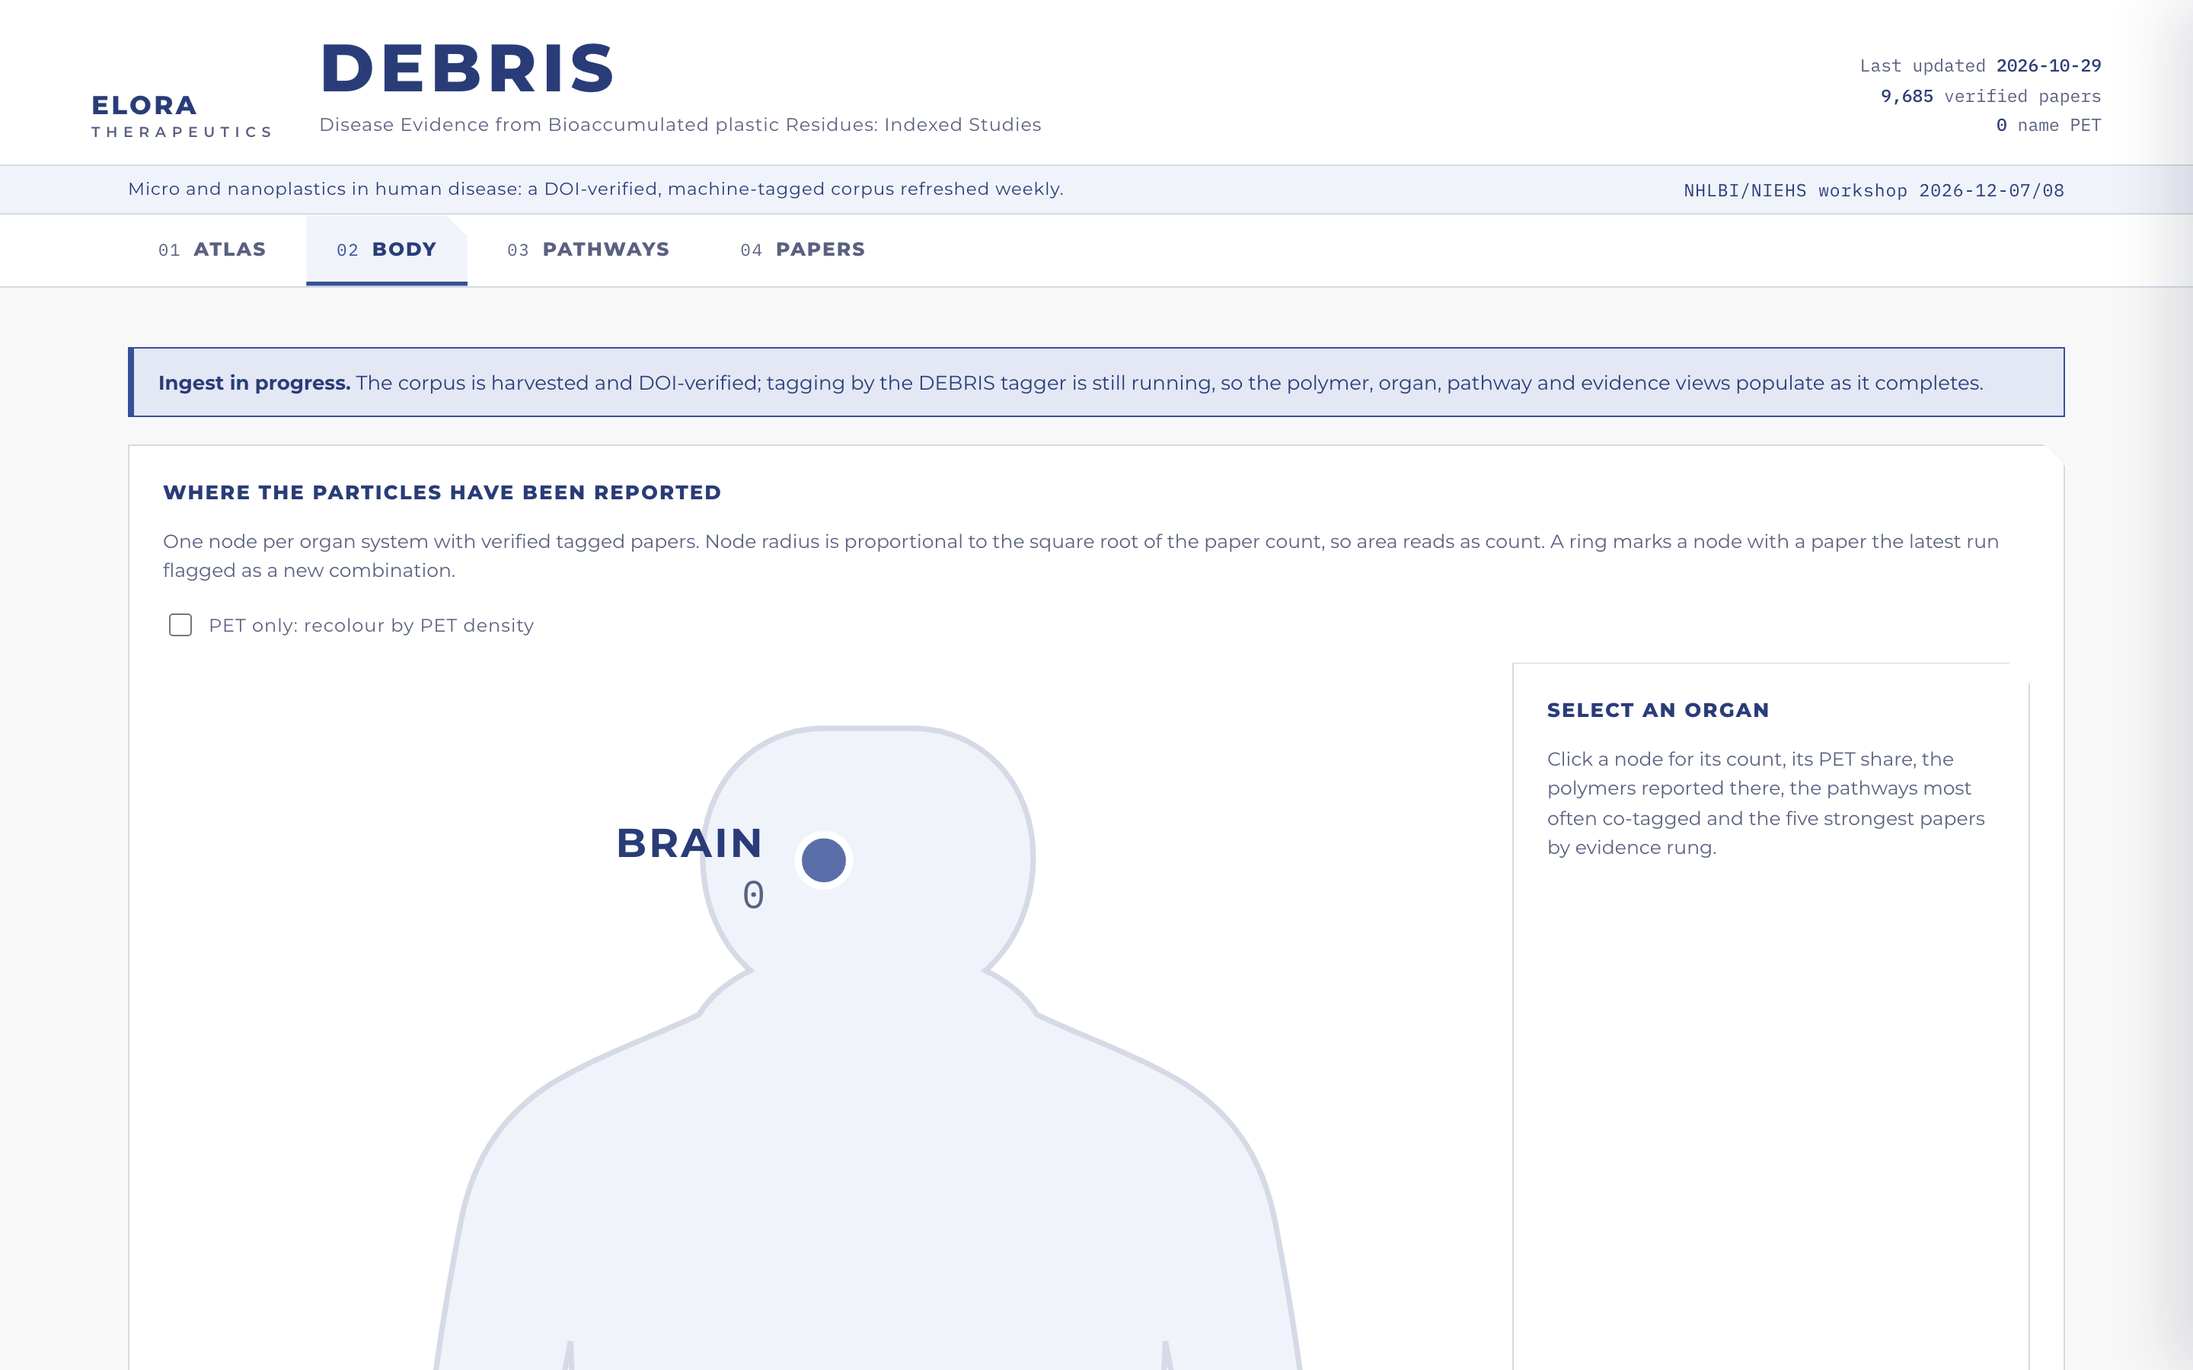
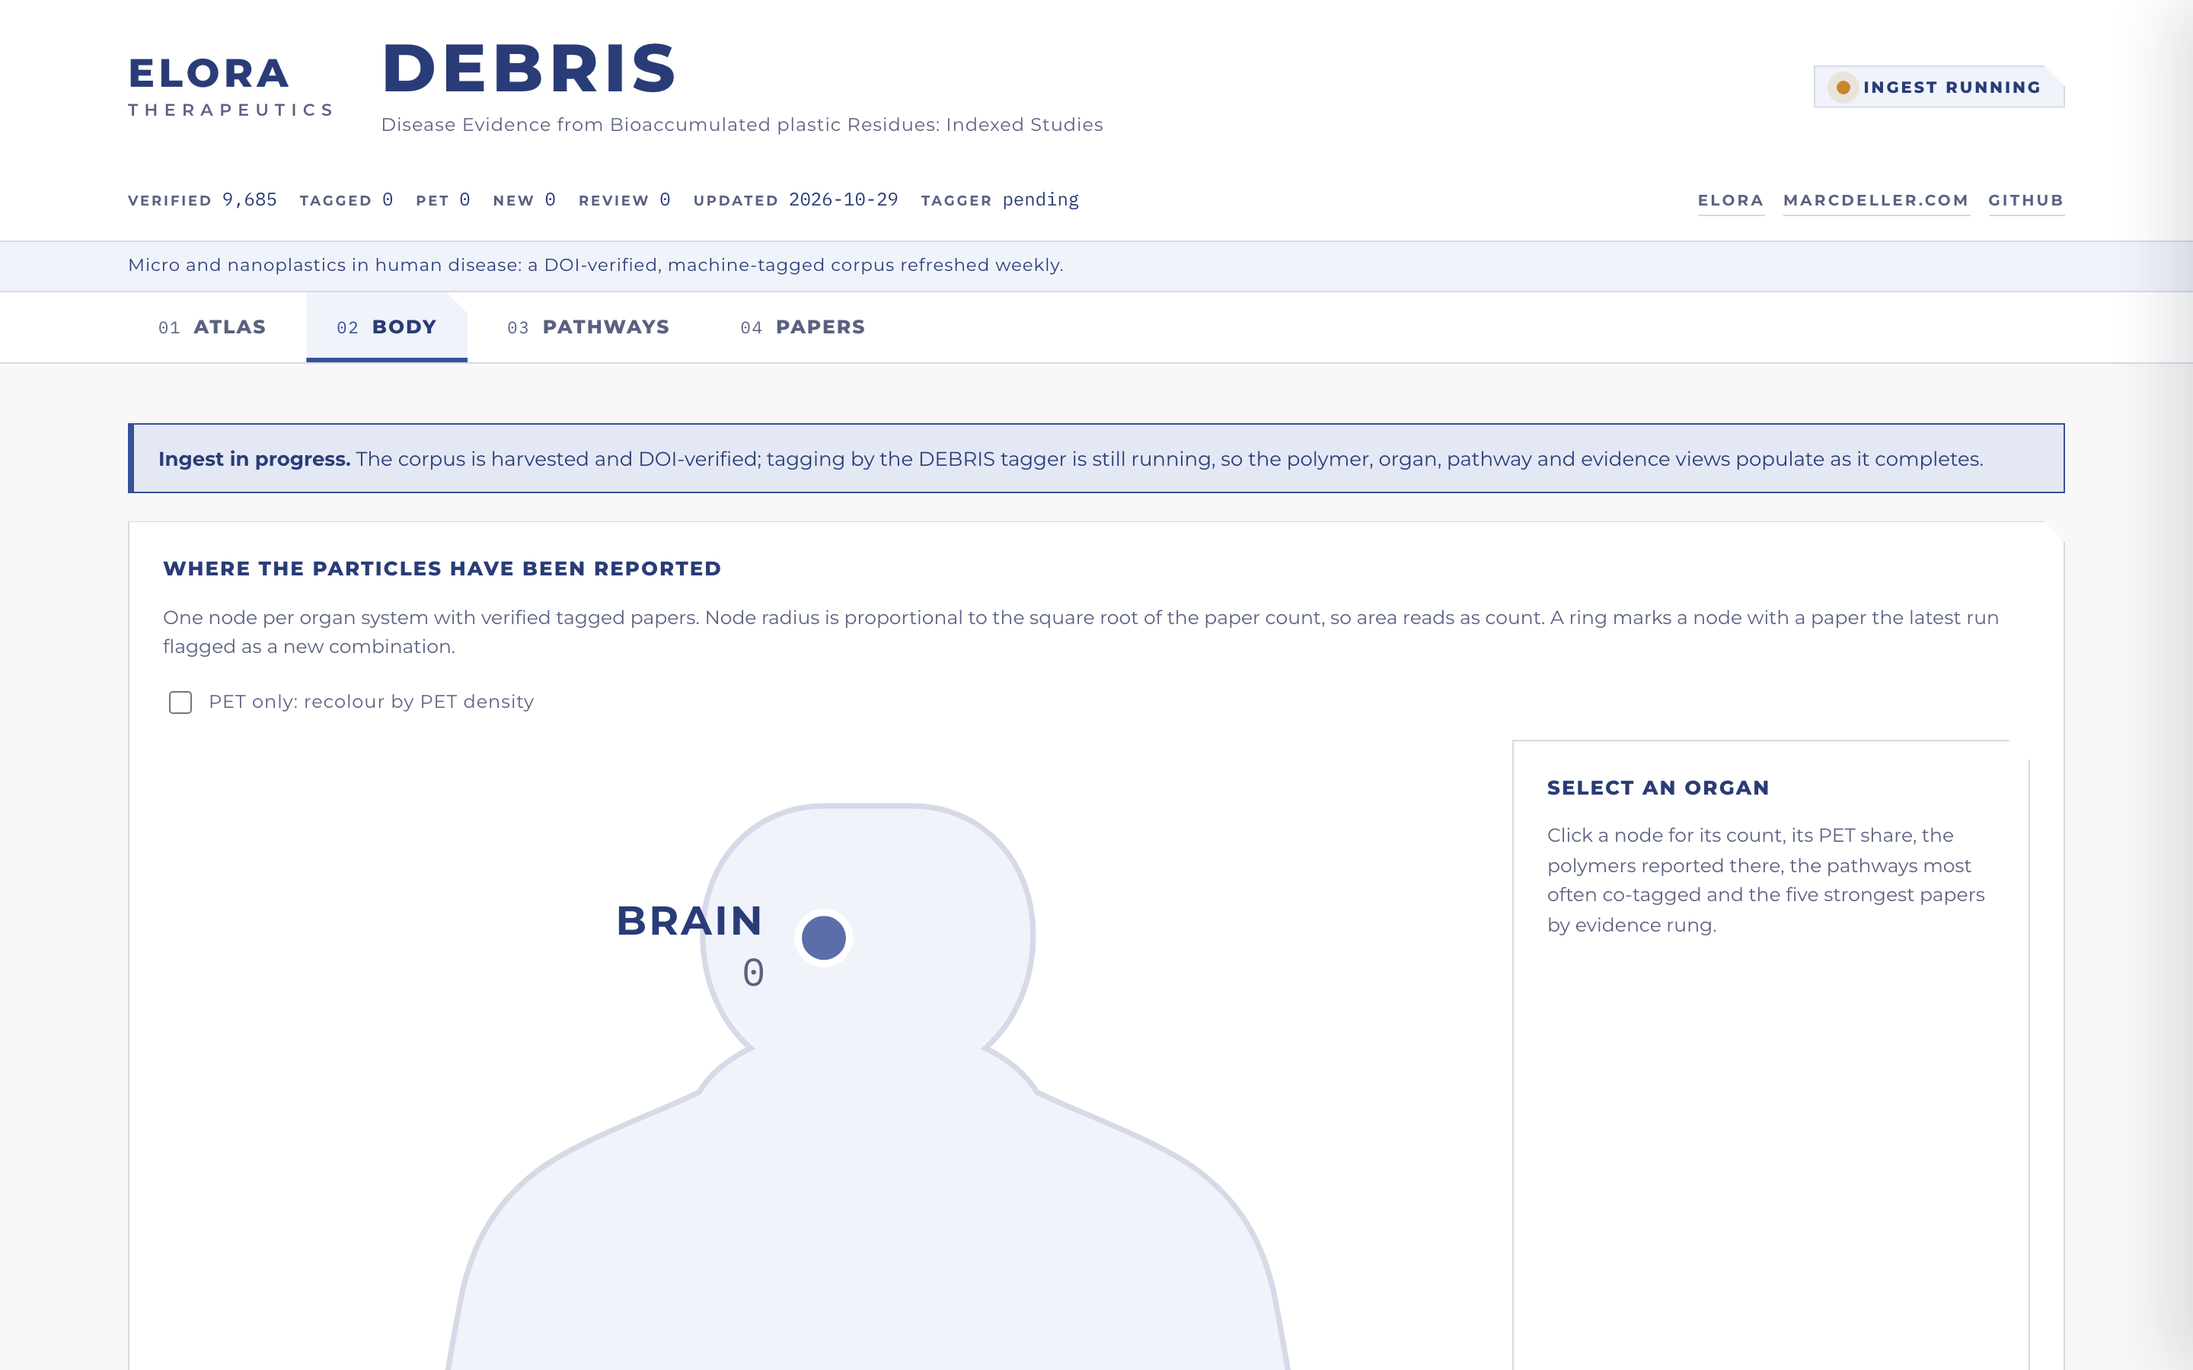
app: align and enlarge the wordmark, add a health panel and the site links
The wordmark hung outside the content column because .brandrow set
`padding:22px 0 16px` after .wrap set `padding:0 24px`, zeroing it: the logo started
at x=60 where the tabs, cards and strapline all start at x=84. The padding is now
repeated in the rule that overrode it, with a comment saying why, and the wordmark
goes from 17px to 26px.

The header carries a health indicator whose state is derived rather than decorative.
health_of() reads the corpus: an empty corpus, a refresh older than ten days, relevance
drift under 0.90 or a review queue over a quarter of the tagged papers all read
"attention"; a corpus still being tagged reads "working", because mid-ingest is not a
fault; only a complete, fresh, undrifted corpus reads "operational". The dot pulses in
its state colour, and the animation is confined to prefers-reduced-motion:no-preference
since the colour carries the state without it. The chip collapses its own figures,
which matters on a phone where the panel would push the tabs off the first screen.

Beside it: verified, tagged, PET, new, review queue, last update and tagger version,
laid out as one wrapping row rather than a stacked list, which kept the header two
lines deep. Links to Elora, marcdeller.com and the GitHub repository sit on that row.
The NHLBI/NIEHS line is removed.

9 tests for health_of, including that a problem outranks work in progress and that an
unreadable ingest date does not crash the header. 93 tests green, QC clean at 8 page
[…]

diff --git a/app/static/css/theme.css b/app/static/css/theme.css
@@ -5,7 +5,7 @@
 :root{
   --el-blue:#385098;--el-ink:#2A3C78;--el-soft:#E3E8F4;--el-tint:#F0F3FA;--el-bg:#F8F8F8;
   --el-fg:#1C2238;--el-muted:#5A6180;--el-line:#D6DAE6;--el-card:#FFFFFF;
-  --pet:#C8872B;--ps:#2C8C86;--pe-pp:#B84C62;--pvc:#6E5BA6;--other:#8A93AD;--new:#C8872B;
+  --el-ok:#2F7D62;--pet:#C8872B;--ps:#2C8C86;--pe-pp:#B84C62;--pvc:#6E5BA6;--other:#8A93AD;--new:#C8872B;
   --display:'Montserrat',Helvetica,Arial,sans-serif;--mono:'IBM Plex Mono',Menlo,monospace;
   --chamfer:polygon(0 0, calc(100% - 14px) 0, 100% 14px, 100% 100%, 0 100%);
   --gap:18px;--radius:3px;
@@ -28,19 +28,63 @@ h1,h2,h3{margin:0;font-weight:700;letter-spacing:-0.01em}
 .chamfer{clip-path:var(--chamfer)}
 
 header.site{background:var(--el-card);border-bottom:1px solid var(--el-line)}
-.brandrow{display:flex;align-items:flex-end;gap:28px;flex-wrap:wrap;padding:22px 0 16px}
-.elora{display:block;font-weight:800;font-size:17px;letter-spacing:0.1em;color:var(--el-ink);
-  text-transform:uppercase;line-height:1}
-.elora .eyebrow{display:block;font-weight:600;font-size:9.5px;letter-spacing:0.4em;
-  color:var(--el-muted);margin-top:4px}
+/* The horizontal padding is repeated from .wrap deliberately: this rule follows it in
+   the cascade, so a bare `padding:22px 0 16px` would zero it and hang the wordmark and
+   the health panel outside the column every other element lines up on. */
+.brandrow{display:flex;align-items:flex-end;gap:28px;flex-wrap:wrap;padding:22px 24px 16px}
+.elora{display:block;font-weight:800;font-size:26px;letter-spacing:0.1em;color:var(--el-ink);
+  text-transform:uppercase;line-height:1;align-self:center;flex:0 0 auto}
+.elora:hover{text-decoration:none;color:var(--el-blue)}
+.elora .eyebrow{display:block;font-weight:600;font-size:11px;letter-spacing:0.38em;
+  color:var(--el-muted);margin-top:6px}
 .titleblock{flex:1 1 420px;min-width:0}
 .titleblock h1{font-weight:800;font-size:clamp(28px,4.2vw,44px);letter-spacing:0.08em;
   text-transform:uppercase;color:var(--el-ink);line-height:1}
 .titleblock .expand{display:block;color:var(--el-muted);font-size:12px;letter-spacing:0.04em;
   margin-top:7px}
-.stamp{text-align:right;font-family:var(--mono);font-size:11.5px;color:var(--el-muted);
-  line-height:1.7;white-space:nowrap}
-.stamp b{color:var(--el-ink);font-weight:500}
+/* ------------------------------------------------------------------ health panel */
+/* The figures take a line of their own under the title, so the title keeps its width
+   and the header stays two lines deep. */
+.healthrow{flex:1 0 100%;display:flex;flex-wrap:wrap;align-items:baseline;gap:6px 18px;
+  justify-content:space-between;margin-top:2px}
+.pulse{align-self:center;display:inline-flex;align-items:center;gap:9px;cursor:pointer;
+  background:var(--el-tint);border:1px solid var(--el-line);clip-path:var(--chamfer);
+  padding:7px 14px 6px;font-family:var(--display);font-weight:800;font-size:10.5px;
+  letter-spacing:0.14em;text-transform:uppercase;color:var(--el-ink)}
+.pulse:hover{background:var(--el-soft)}
+.pulse .dot{width:9px;height:9px;border-radius:50%;flex:0 0 auto;background:var(--el-muted)}
+.pulse[data-state="ok"] .dot{background:var(--el-ok)}
+.pulse[data-state="working"] .dot{background:var(--pet)}
+.pulse[data-state="attention"] .dot{background:var(--pe-pp)}
+/* One wrapping row of pairs, not a stacked list: seven stacked rows made the header
+   taller than the content it introduces. */
+.healthgrid{display:flex;flex-wrap:wrap;gap:3px 15px;margin:0}
+.healthgrid>div{display:flex;align-items:baseline;gap:6px}
+.healthgrid dt{text-transform:uppercase;letter-spacing:0.16em;font-size:9px;font-weight:700;
+  color:var(--el-muted)}
+.healthgrid dd{margin:0;color:var(--el-ink);font-size:12px}
+.brandlinks{display:flex;gap:12px;flex-wrap:wrap;justify-content:flex-end;
+  font-size:10px;font-weight:700;letter-spacing:0.16em;text-transform:uppercase}
+.brandlinks a{color:var(--el-muted);border-bottom:1px solid var(--el-line);padding-bottom:2px}
+.brandlinks a:hover,.brandlinks a:focus-visible{color:var(--el-blue);
+  border-bottom-color:currentColor;text-decoration:none}
+
+/* The ring only animates where motion is welcome; the colour carries the state either
+   way, so nothing is lost when it is switched off. */
+@media (prefers-reduced-motion:no-preference){
+  .pulse[data-state="ok"] .dot{animation:el-pulse-ok 2.4s ease-out infinite}
+  .pulse[data-state="working"] .dot{animation:el-pulse-work 1.6s ease-out infinite}
+}
+@keyframes el-pulse-ok{
+  0%{box-shadow:0 0 0 0 rgba(47,125,98,0.55)}
+  70%{box-shadow:0 0 0 8px rgba(47,125,98,0)}
+  100%{box-shadow:0 0 0 0 rgba(47,125,98,0)}
+}
+@keyframes el-pulse-work{
+  0%{box-shadow:0 0 0 0 rgba(200,135,43,0.55)}
+  70%{box-shadow:0 0 0 8px rgba(200,135,43,0)}
+  100%{box-shadow:0 0 0 0 rgba(200,135,43,0)}
+}
 .workshop{background:var(--el-tint);border-top:1px solid var(--el-line);
   font-size:11.5px;letter-spacing:0.04em;color:var(--el-ink);padding:7px 0}
 .workshop .wrap{display:flex;gap:14px;justify-content:space-between;flex-wrap:wrap}
@@ -196,8 +240,10 @@ footer.site .mono{font-size:11px}
 }
 @media (max-width:768px){
   .wrap{padding:0 16px}
-  .brandrow{padding:16px 0 12px;gap:14px}
-  .stamp{text-align:left}
+  .brandrow{padding:16px 24px 12px;gap:14px}
+  .elora{font-size:22px}
+  .healthrow{gap:6px 12px}
+  .brandlinks{justify-content:flex-start}
   .titleblock h1{letter-spacing:0.06em}
   .kpi .value{font-size:25px}
   .drawer{width:100vw}

diff --git a/app/templates/base.html b/app/templates/base.html
@@ -19,21 +19,36 @@
 
 <header class="site">
   <div class="wrap brandrow">
-    <a class="elora" href="https://eloratherapeutics.com">Elora<span class="eyebrow">Therapeutics</span></a>
+    <a class="elora" href="https://eloratherapeutics.com" rel="noopener">Elora<span class="eyebrow">Therapeutics</span></a>
     <div class="titleblock">
       <h1>Debris</h1>
       <span class="expand">Disease Evidence from Bioaccumulated plastic Residues: Indexed Studies</span>
     </div>
-    <div class="stamp">
-      Last updated <b>{{ meta.last_ingest_date or 'pending first ingest' }}</b><br>
-      <b>{{ '{:,}'.format(meta.verified_papers or 0) }}</b> verified papers<br>
-      <b>{{ '{:,}'.format(meta.pet_papers or 0) }}</b> name PET
+    <button type="button" class="pulse" data-state="{{ health.state }}"
+            aria-expanded="true" aria-controls="healthpanel" title="{{ health.detail }}">
+      <span class="dot" aria-hidden="true"></span>
+      <span class="pulse-label">{{ health.label }}</span>
+    </button>
+    <div class="healthrow">
+      <dl id="healthpanel" class="healthgrid">
+        <div><dt>Verified</dt><dd class="mono">{{ '{:,}'.format(meta.verified_papers or 0) }}</dd></div>
+        <div><dt>Tagged</dt><dd class="mono">{{ '{:,}'.format(meta.tagged_papers or 0) }}</dd></div>
+        <div><dt>PET</dt><dd class="mono">{{ '{:,}'.format(meta.pet_papers or 0) }}</dd></div>
+        <div><dt>New</dt><dd class="mono">{{ '{:,}'.format(meta.new_this_week or 0) }}</dd></div>
+        <div><dt>Review</dt><dd class="mono">{{ '{:,}'.format(meta.review_queue or 0) }}</dd></div>
+        <div><dt>Updated</dt><dd class="mono">{{ meta.last_ingest_date or 'pending' }}</dd></div>
+        <div><dt>Tagger</dt><dd class="mono">{{ meta.model_version or 'pending' }}</dd></div>
+      </dl>
+      <nav class="brandlinks" aria-label="Related sites">
+        <a href="https://eloratherapeutics.com" rel="noopener">Elora</a>
+        <a href="https://marcdeller.com" rel="noopener">marcdeller.com</a>
+        <a href="https://github.com/bellcheddar/DEBRIS" rel="noopener">GitHub</a>
+      </nav>
     </div>
   </div>
   <div class="workshop">
     <div class="wrap">
       <span>Micro and nanoplastics in human disease: a DOI-verified, machine-tagged corpus refreshed weekly.</span>
-      <span class="mono">NHLBI/NIEHS workshop 2026-12-07/08</span>
     </div>
   </div>
 </header>

diff --git a/app/static/js/common.js b/app/static/js/common.js
@@ -108,6 +108,21 @@ const DEBRIS = (() => {
     document.addEventListener('keydown', (e) => { if (e.key === 'Escape') close(); });
   }
 
+  function wireHealth() {
+    // The chip collapses its own figures. It matters on a phone, where leaving the
+    // panel open pushes the tabs off the first screen; the state itself stays visible
+    // in the chip either way, so collapsing hides detail and never the status.
+    const chip = document.querySelector('.pulse[aria-controls]');
+    if (!chip) return;
+    const panel = document.getElementById(chip.getAttribute('aria-controls'));
+    chip.addEventListener('click', () => {
+      const open = chip.getAttribute('aria-expanded') !== 'true';
+      chip.setAttribute('aria-expanded', open ? 'true' : 'false');
+      if (panel) panel.hidden = !open;
+    });
+  }
+
   document.addEventListener('DOMContentLoaded', wireDrawer);
+  document.addEventListener('DOMContentLoaded', wireHealth);
   return { T, colourFor, layout, config, plot, fmt, chips, openPaper, esc, label, polymerTagClass };
 })();

diff --git a/app/app.py b/app/app.py
@@ -10,6 +10,7 @@ is Elora Therapeutics (spec 6.2).
 from __future__ import annotations
 
 import csv
+import datetime as dt
 import io
 import json
 import os
@@ -70,10 +71,55 @@ def asset_version(relative: str) -> int:
     return int(path.stat().st_mtime) if path.exists() else 0
 
 
+STALE_DAYS = 10  # the refresh is weekly, with a little slack for one missed run
+
+
+def health_of(meta: dict) -> dict:
+    """The header indicator's state, derived from what the pipeline actually recorded.
+
+    Every signal here is a number the corpus carries, so the light cannot read green
+    while the data is stale, the tagger is drifting or half the corpus is queued for
+    review. Three states: `ok` when nothing is outstanding, `working` while the corpus
+    is still being built (which is not a fault), and `attention` when a check fails.
+    """
+    verified = meta.get("verified_papers") or 0
+    tagged = meta.get("tagged_papers") or 0
+    queued = meta.get("review_queue") or 0
+    drift = meta.get("drift_f1")
+    try:
+        age = (dt.date.today() - dt.date.fromisoformat(meta.get("last_ingest_date") or "")).days
+    except (TypeError, ValueError):
+        age = None
+
+    problems, working = [], []
+    if verified == 0:
+        problems.append("no verified papers in the corpus")
+    if age is not None and age > STALE_DAYS:
+        problems.append(f"last refresh {age} days ago")
+    if drift is not None and drift < 0.90:
+        problems.append(f"relevance drift at {drift:.2f}")
+    if tagged and queued / tagged > 0.25:
+        problems.append("review queue over a quarter of the tagged corpus")
+    if age is None:
+        working.append("awaiting the first completed ingest")
+    if verified and tagged < verified:
+        working.append(f"{verified - tagged:,} papers still to tag")
+    if meta.get("provisional_tags"):
+        working.append("tags provisional until the tagger meets its floor")
+
+    if problems:
+        return {"state": "attention", "label": "Needs attention", "detail": problems[0]}
+    if working:
+        return {"state": "working", "label": "Ingest running", "detail": working[0]}
+    return {"state": "ok", "label": "All systems operational",
+            "detail": f"refreshed {'today' if age == 0 else f'{age} days ago'}"}
+
+
 @app.context_processor
 def template_globals() -> dict:
     meta = load_bundle("meta")
-    return {"tabs": TABS, "meta": meta, "vocab": vocab(), "asset_version": asset_version}
+    return {"tabs": TABS, "meta": meta, "vocab": vocab(), "asset_version": asset_version,
+            "health": health_of(meta)}
 
 
 # -------------------------------------------------------------------------- pages

diff --git a/tests/test_health.py b/tests/test_health.py
@@ -1,0 +1,70 @@
+"""The header indicator must never read green on a corpus that is not.
+
+health_of() is the only thing standing between a real problem and a reassuring dot, so
+each failing signal is checked on its own.
+"""
+from __future__ import annotations
+
+import datetime as dt
+
+import pytest
+
+from app import app as app_module
+
+
+def meta(**over):
+    base = {"verified_papers": 100, "tagged_papers": 100, "pet_papers": 10,
+            "review_queue": 0, "drift_f1": 0.96, "provisional_tags": False,
+            "last_ingest_date": dt.date.today().isoformat()}
+    base.update(over)
+    return base
+
+
+def test_a_complete_fresh_corpus_is_operational():
+    assert app_module.health_of(meta())["state"] == "ok"
+
+
+def test_untagged_papers_read_as_working_not_broken():
+    """A corpus mid-ingest is not a fault, and must not be dressed as one."""
+    out = app_module.health_of(meta(tagged_papers=40))
+    assert out["state"] == "working"
+    assert "60 papers still to tag" in out["detail"]
+
+
+def test_an_empty_corpus_is_not_healthy():
+    assert app_module.health_of(meta(verified_papers=0, tagged_papers=0))["state"] == "attention"
+
+
+def test_a_stale_refresh_is_not_healthy():
+    old = (dt.date.today() - dt.timedelta(days=app_module.STALE_DAYS + 1)).isoformat()
+    out = app_module.health_of(meta(last_ingest_date=old))
+    assert out["state"] == "attention"
+    assert "last refresh" in out["detail"]
+
+
+def test_drift_below_the_floor_is_not_healthy():
+    assert app_module.health_of(meta(drift_f1=0.89))["state"] == "attention"
+
+
+def test_a_swamped_review_queue_is_not_healthy():
+    assert app_module.health_of(meta(review_queue=30))["state"] == "attention"
+
+
+@pytest.mark.parametrize("stamp", [None, "", "not-a-date"])
+def test_an_unreadable_ingest_date_does_not_raise(stamp):
+    """A missing or malformed stamp means no completed ingest, not a crashed header."""
+    assert app_module.health_of(meta(last_ingest_date=stamp))["state"] == "working"
+
+
+def test_a_problem_outranks_work_in_progress():
+    """Mid-ingest and drifting at once must report the problem, not the progress."""
+    assert app_module.health_of(meta(tagged_papers=40, drift_f1=0.5))["state"] == "attention"
+
+
+def test_the_header_renders_the_indicator(client):
+    page = client.get("/").get_data(as_text=True)
+    assert 'class="pulse"' in page
+    assert 'data-state=' in page
+    for link in ("eloratherapeutics.com", "marcdeller.com", "github.com/bellcheddar/DEBRIS"):
+        assert link in page
+    assert "NHLBI" not in page

diff --git a/BUILD_LOG.md b/BUILD_LOG.md
@@ -187,3 +187,4 @@
 - 2026-10-29 12:55 hf: pushed Space Dellboy/debris-tagger; set its hardware to zero-a10g in the Space settings if it is not already
 - 2026-10-29 12:57 readme: wrote README.md, 262 lines
 - 2026-10-29 13:02 hf: pushed Space Dellboy/debris-tagger; set its hardware to zero-a10g in the Space settings if it is not already
+- 2026-10-29 13:32 qc ui: pass, 8 page renders, 0 serious or critical axe violations, 0 console errors, 0 failed requests
